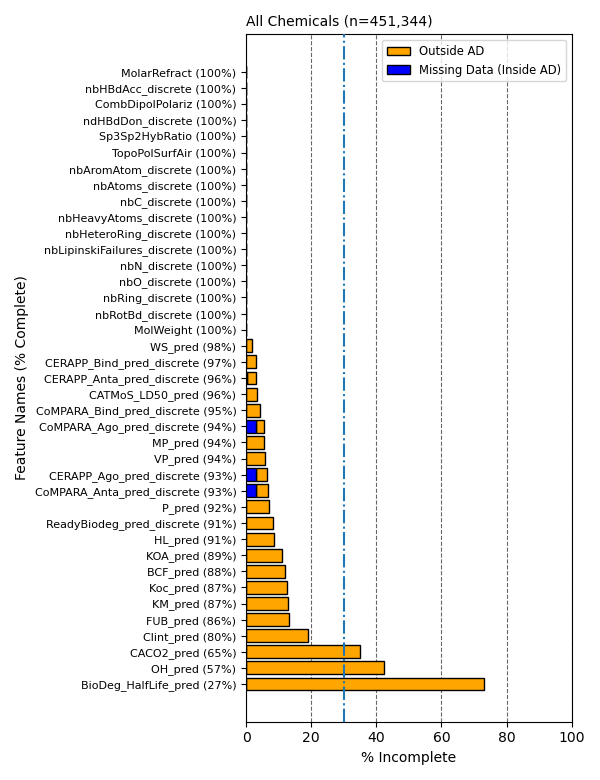
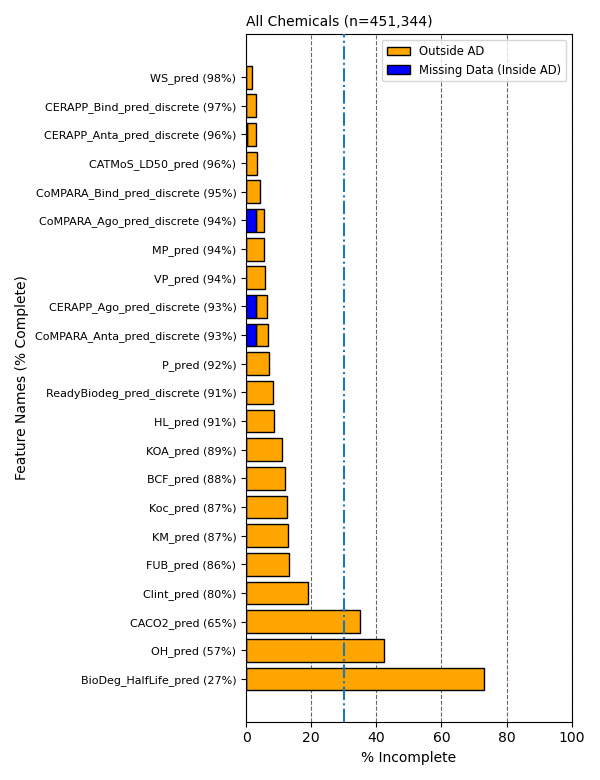
Omit features with no applicability domain from figure

Changed region(s): [[0.06, 0.0923, 0.81, 0.8923]]

diff --git a/plotting/feature_completeness.py b/plotting/feature_completeness.py
@@ -227,11 +227,14 @@ def proportions_incomplete(X_subset, AD_flags_subset):
         Tuple containing the proportion of missing values, values outside AD, 
         and valid values.
     '''
+    # Filter out any features that don't have applicability domains
+    complete_features = X_subset.columns.difference(AD_flags_subset.columns)
+    X_subset = X_subset.drop(complete_features, axis=1)
+
+    # TODO: Rename "prop" to "props" for clarity
     outside_AD_prop = AD_flags_subset.mean() * 100
     not_outside_AD = ~AD_flags_subset
     missing_prop = (X_subset.isna() & not_outside_AD).mean() * 100
-    missing_prop, outside_AD_prop = missing_prop.align(
-        outside_AD_prop, fill_value=0)
     valid_prop = 100 - missing_prop - outside_AD_prop
     
     # Order by the valid proportion in ascending order
